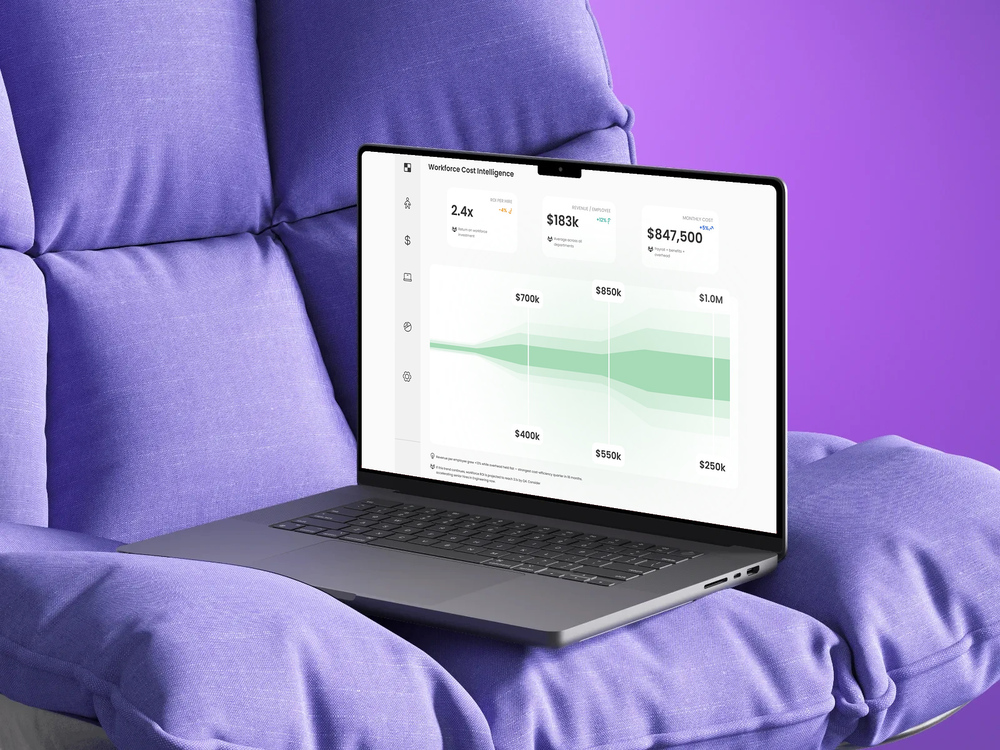
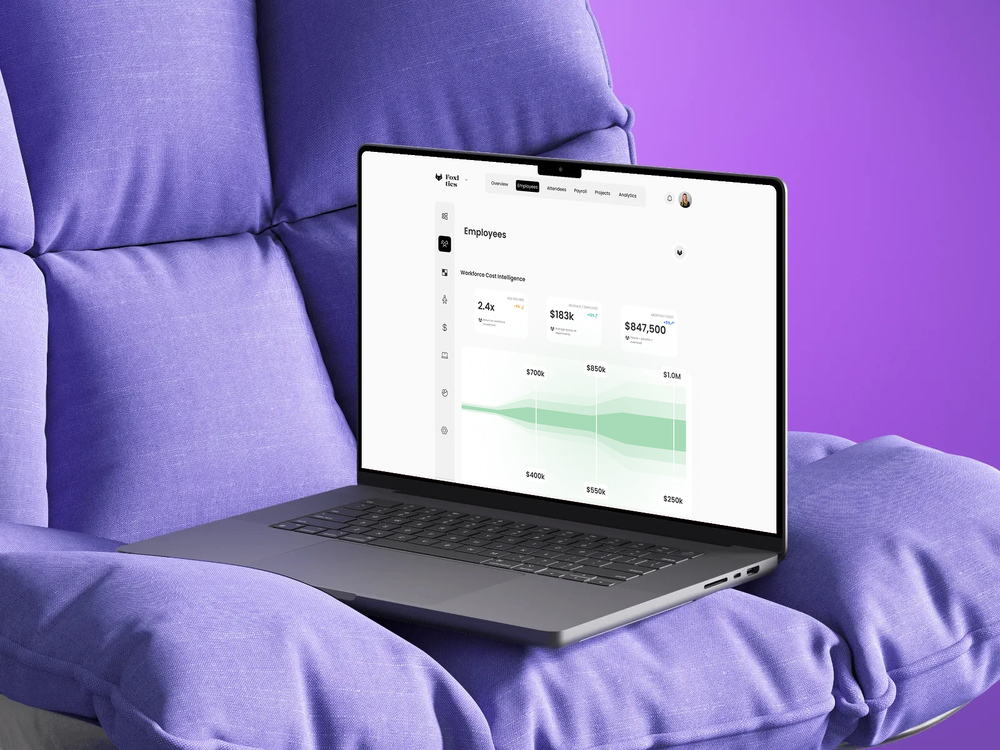
Purple chair laptop: Employees page from the top through the chart, insight notes removed
Claude-Session: https://claude.ai/code/session_01FdYAnoP1AuAPuCnLWf7gdc

diff --git a/behance-cover/mockups/set22.py b/behance-cover/mockups/set22.py
@@ -6,9 +6,9 @@ from PIL import Image, ImageDraw, ImageFilter
 exec(open('set8.py').read().split('for (name, (f, q, asp')[0])
 f, q, asp, notch, _ = SCENES['chair']; DF, TOP = '209.jpg', 470
 base = Image.open(I + f).convert('RGB'); dash = Image.open(I + DF).convert('RGB'); r = asp
-# fit the whole Workforce Cost Intelligence section (title to the notes under the chart) on screen
-# without stretching: crop rows 470-1555 at full width, centre it on the page colour to the screen ratio
-band = dash.crop((0, 470, dash.width, 1555)); cw = round(band.height * r)
+# fit the page from its top down to the end of the chart (insight notes removed) on screen
+# without stretching: crop rows 0-1448 at full width, centre it on the page colour to the screen ratio
+band = dash.crop((0, 0, dash.width, 1448)); cw = round(band.height * r)   # page top to chart end, insight notes left out; cw = round(band.height * r)
 pg = Image.new('RGB', (cw, band.height), dash.getpixel((1440, 1700))); pg.paste(band, ((cw - band.width) // 2, 0))
 src = pg.resize((round(3600 * r), 3600), Image.LANCZOS)
 sm = Image.new('L', src.size, 0); d = ImageDraw.Draw(sm); s = src.height / 2400
